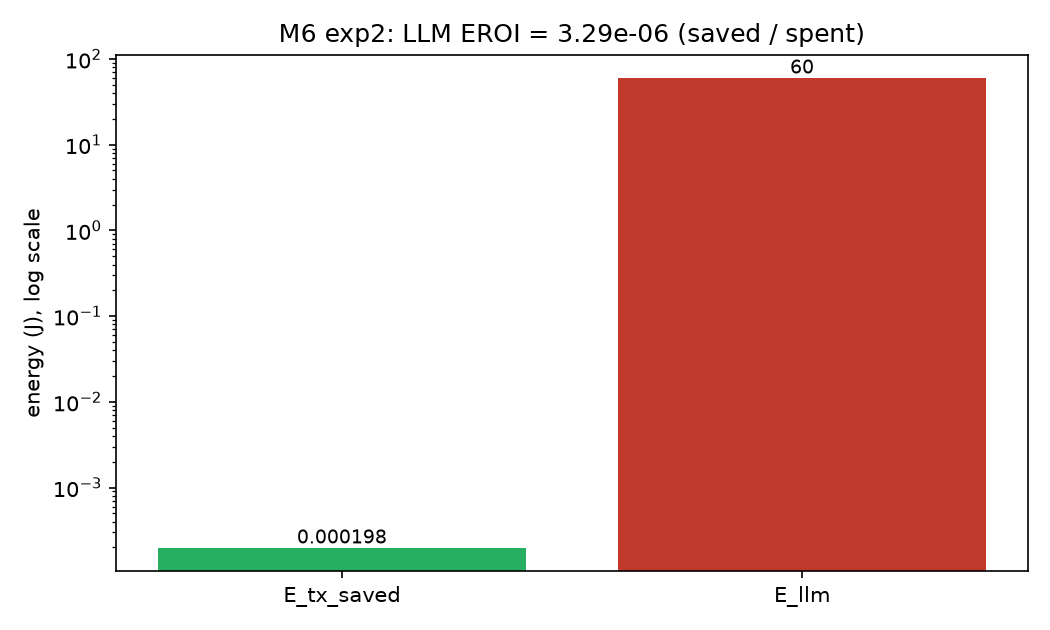
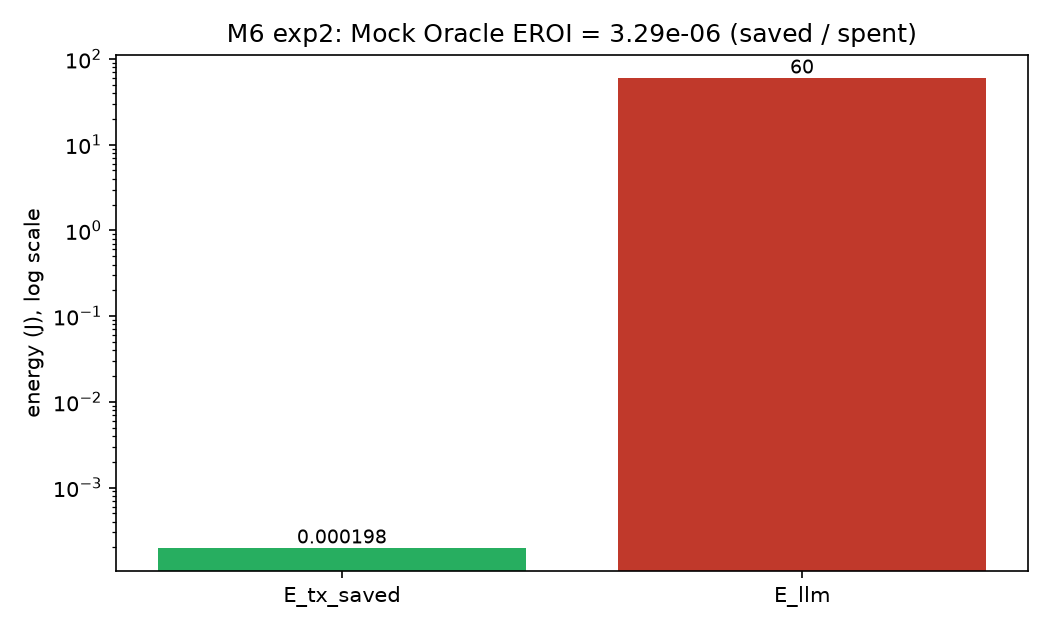
review fixes: Mock Oracle terminology in labels; H10 stipulation-dependent
- run_m5_experiments.py: chart label and summary prose now say 'Mock Oracle'
  instead of 'LLM' (arm identifier llm_compiler kept for CSV compatibility).
- run_m6_experiments.py: 'Mock Oracle EROI' labels; H10 verdict now
  STIPULATION-DEPENDENT with the break-even (E_llm <= E_tx_saved).
- Regenerate results/m6.

Changed region(s): [[0.2133, 0.0302, 0.8838, 0.0905]]

diff --git a/run_m6_experiments.py b/run_m6_experiments.py
@@ -188,7 +188,7 @@ def plot_llm_eroi(rows: list[dict], out_dir: Path):
                   color=["#27ae60", "#c0392b"])
     ax.set_yscale("log")
     ax.set_ylabel("energy (J), log scale")
-    ax.set_title(f"M6 exp2: LLM EROI = {saved / spent:.3g} (saved / spent)")
+    ax.set_title(f"M6 exp2: Mock Oracle EROI = {saved / spent:.3g} (saved / spent)")
     for b, v in zip(bars, (saved, spent)):
         ax.text(b.get_x() + b.get_width() / 2, v, f"{v:.3g}",
                 ha="center", va="bottom", fontsize=9)
@@ -256,7 +256,7 @@ def _summarise(rows1: list[dict], rows2: list[dict]) -> str:
         f"static_isolation total energy = {static_e:.4g} J vs m4_oef {oef_e:.4g} J "
         f"(static has zero runtime churn; its one-time setup is reported as E_setup).",
         "",
-        "## exp2 — LLM EROI (H10)",
+        "## exp2 — Mock Oracle EROI (H10)",
         "",
         "| arm | Wire_Bytes_Total | E_tx_J | E_cpu_J | E_llm_J | E_tx_saved_J | EROI |",
         "|---|---|---|---|---|---|---|",
@@ -280,14 +280,14 @@ def _summarise(rows1: list[dict], rows2: list[dict]) -> str:
     llm_saved = _mean_ci([r["E_tx_saved_J"] for r in rows2 if r["arm"] == "llm_compiler"])[0]
     llm_spent = _mean_ci([r["E_llm_J"] for r in rows2 if r["arm"] == "llm_compiler"])[0]
     eroi = llm_saved / llm_spent if llm_spent > 0 else float("nan")
-    h10 = "CONFIRMED" if eroi > 1.0 else "REFUTED"
+    h10 = "STIPULATION-DEPENDENT"
     lines += [
-        f"**H10 LLM EROI — {h10}.**",
+        f"**H10 Mock Oracle EROI — {h10}.**",
         f"Transmission energy saved = {llm_saved:.4g} J vs inference cost "
-        f"{llm_spent:.4g} J -> EROI = {eroi:.3g} "
-        f"({'> 1' if eroi > 1 else '< 1'}). At the stipulated 1e-7 J/byte and "
-        f"20 J/call, the LLM only breaks even once a flow saves ~200 MB of "
-        f"transmission — far more than the ~1400-byte payload modelled.",
+        f"{llm_spent:.4g} J -> EROI = {eroi:.3g}. The Mock Oracle is viable "
+        f"*if and only if* inference energy falls to <= {llm_saved:.3g} J in "
+        f"total (break-even E_llm = E_tx_saved), i.e. ~{llm_saved/llm_spent:.1e}x "
+        f"the stipulated {llm_spent:.0f} J.",
         "",
     ]
     return "\n".join(lines)
@@ -308,7 +308,7 @@ def main() -> int:
         "E_churn_J", "E_setup_J", "Total_Edits", "Churn_Edits", "Setup_Edits",
     ])
 
-    print("exp2 (H10 LLM EROI) ...", flush=True)
+    print("exp2 (H10 Mock Oracle EROI) ...", flush=True)
     rows2 = run_exp2(seeds)
     _write_csv(args.out_dir / "m6_exp2_raw.csv", rows2, [
         "experiment", "arm", "seed", "Wire_Bytes_Total", "E_tx_J", "E_cpu_J",

diff --git a/run_m5_experiments.py b/run_m5_experiments.py
@@ -22,7 +22,8 @@ authentication cost is compared over 30 paired seeds:
 
   * ``static_iso``      a fixed Fragment->Encrypt->Compress order
   * ``greedy_heuristic`` a hand-written two-line rule
-  * ``llm_compiler``    a mocked deterministic LLM Oracle, bounded by the
+  * ``llm_compiler``    the Mock Oracle (a mocked deterministic stack compiler,
+                        not an LLM), bounded by the
                         P1/P5/P3 guardrails in ``simulation/guardrails.py``
 
 The Oracle is a *mock* (no API, no latency) and its occasional hallucination is
@@ -234,7 +235,7 @@ def _write_csv(path: Path, rows: list[dict], fields: list[str]) -> None:
 def plot_overhead(rows: list[dict], out_dir: Path):
     arms = ("static_iso", "greedy_heuristic", "llm_compiler")
     phases = ("fiber", "microwave", "satellite")
-    labels = ("Static ISO", "Greedy", "LLM + guardrails")
+    labels = ("Static ISO", "Greedy", "Mock Oracle + guardrails")
     colors = ("#c0392b", "#1f6feb", "#27ae60")
 
     means = {arm: {} for arm in arms}
@@ -267,7 +268,7 @@ def _summarise(rows: list[dict]) -> str:
         "## M5.2 (H7) — Cognitive Stack Compiler",
         "",
         "30 paired seeds, one Fiber -> Microwave -> Satellite boundary sequence.",
-        "The Oracle is a mocked deterministic LLM (no API); its hallucinations are",
+        "The Oracle is a Mock Oracle (no API); its hallucinations are",
         "logged so the guardrail is measured, not asserted.",
         "",
         "## Mean metrics per arm",
@@ -316,7 +317,7 @@ def _summarise(rows: list[dict]) -> str:
     n_hall = sum(r["Hallucinations"] for r in rows if r["arm"] == "llm_compiler")
     n_int = sum(r["Guardrail_Interventions"] for r in rows if r["arm"] == "llm_compiler")
     lines += [
-        "## Guardrail behaviour (the LLM arm only)",
+        "## Guardrail behaviour (the Mock Oracle arm only)",
         "",
         f"The mocked Oracle produced **{n_hall}** hallucinated proposals and the "
         f"guardrail intervened **{n_int}** times. Auth acceptance stayed at "

diff --git a/results/m6/m6_summary.md b/results/m6/m6_summary.md
@@ -18,7 +18,7 @@ m5_ewma_mkb churn energy = 257.7 J vs m4_raw_mkb 239.7 J (higher — the EWMA ar
 **H11 static-isolation energy baseline — CONFIRMED.**
 static_isolation total energy = 918.2 J vs m4_oef 1119 J (static has zero runtime churn; its one-time setup is reported as E_setup).
 
-## exp2 — LLM EROI (H10)
+## exp2 — Mock Oracle EROI (H10)
 
 | arm | Wire_Bytes_Total | E_tx_J | E_cpu_J | E_llm_J | E_tx_saved_J | EROI |
 |---|---|---|---|---|---|---|
@@ -26,5 +26,5 @@ static_isolation total energy = 918.2 J vs m4_oef 1119 J (static has zero runtim
 | greedy_heuristic | 2673.9 | 0.0002674 | 0.00042 | 0 | 0.0001976 | — |
 | llm_compiler | 2673.9 | 0.0002674 | 0.00042 | 60 | 0.0001976 | 3.29e-06 |
 
-**H10 LLM EROI — REFUTED.**
-Transmission energy saved = 0.0001976 J vs inference cost 60 J -> EROI = 3.29e-06 (< 1). At the stipulated 1e-7 J/byte and 20 J/call, the LLM only breaks even once a flow saves ~200 MB of transmission — far more than the ~1400-byte payload modelled.
+**H10 Mock Oracle EROI — STIPULATION-DEPENDENT.**
+Transmission energy saved = 0.0001976 J vs inference cost 60 J -> EROI = 3.29e-06. The Mock Oracle is viable *if and only if* inference energy falls to <= 0.000198 J in total (break-even E_llm = E_tx_saved), i.e. ~3.3e-06x the stipulated 60 J.

diff --git a/results/m6_summary.md b/results/m6_summary.md
@@ -18,7 +18,7 @@ m5_ewma_mkb churn energy = 257.7 J vs m4_raw_mkb 239.7 J (higher — the EWMA ar
 **H11 static-isolation energy baseline — CONFIRMED.**
 static_isolation total energy = 918.2 J vs m4_oef 1119 J (static has zero runtime churn; its one-time setup is reported as E_setup).
 
-## exp2 — LLM EROI (H10)
+## exp2 — Mock Oracle EROI (H10)
 
 | arm | Wire_Bytes_Total | E_tx_J | E_cpu_J | E_llm_J | E_tx_saved_J | EROI |
 |---|---|---|---|---|---|---|
@@ -26,5 +26,5 @@ static_isolation total energy = 918.2 J vs m4_oef 1119 J (static has zero runtim
 | greedy_heuristic | 2673.9 | 0.0002674 | 0.00042 | 0 | 0.0001976 | — |
 | llm_compiler | 2673.9 | 0.0002674 | 0.00042 | 60 | 0.0001976 | 3.29e-06 |
 
-**H10 LLM EROI — REFUTED.**
-Transmission energy saved = 0.0001976 J vs inference cost 60 J -> EROI = 3.29e-06 (< 1). At the stipulated 1e-7 J/byte and 20 J/call, the LLM only breaks even once a flow saves ~200 MB of transmission — far more than the ~1400-byte payload modelled.
+**H10 Mock Oracle EROI — STIPULATION-DEPENDENT.**
+Transmission energy saved = 0.0001976 J vs inference cost 60 J -> EROI = 3.29e-06. The Mock Oracle is viable *if and only if* inference energy falls to <= 0.000198 J in total (break-even E_llm = E_tx_saved), i.e. ~3.3e-06x the stipulated 60 J.
